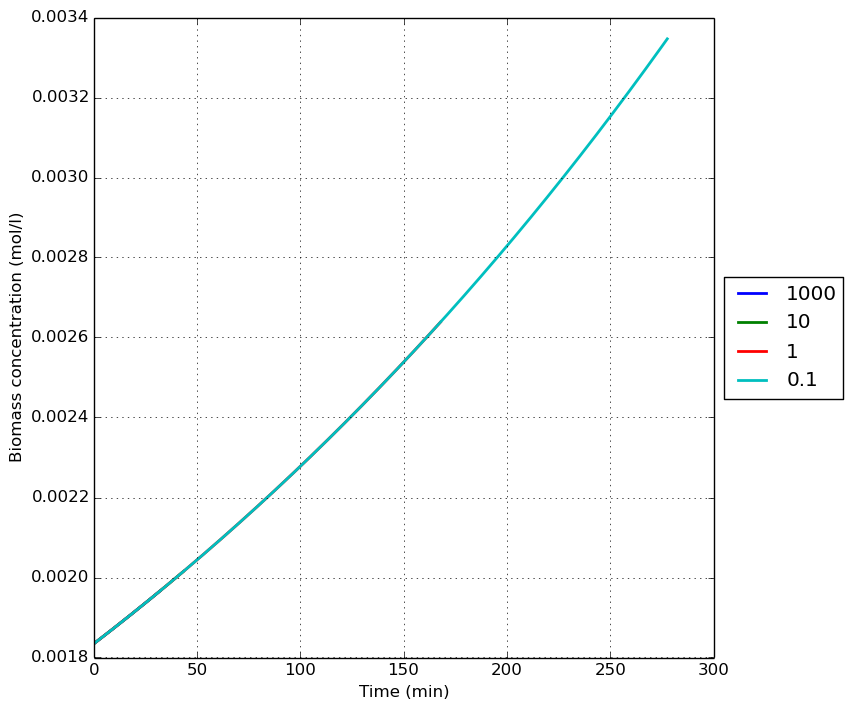
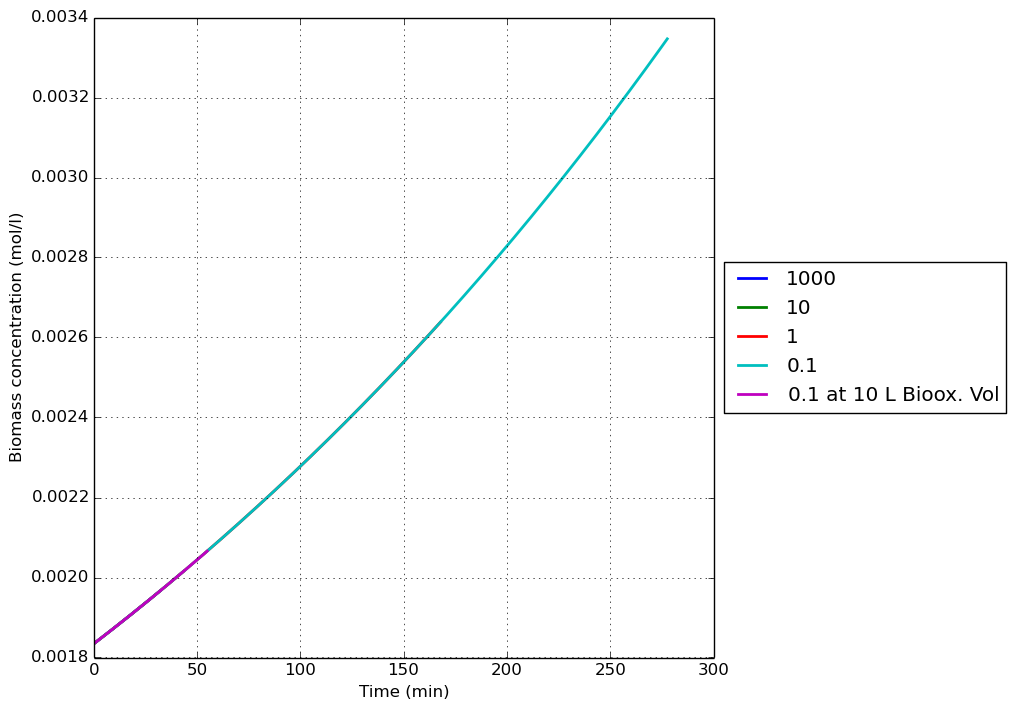
replotting

diff --git a/masters/calculations/management/commands/sensitivity_analysis.py b/masters/calculations/management/commands/sensitivity_analysis.py
@@ -134,8 +134,11 @@ class Command(BaseCommand):
             sys.build_cyclic_tanks()
             output[row[1]] = sys.run()
 
-        sys = system.System(10, 1, 1000, 9, initial_metals={"Cu": 20})
+        sys = system.System(10, 1, 0.1, 9, initial_metals={"Cu": CU})
         sys.build_cyclic_tanks()
+        output["0.1 at 10 L Bioox. Vol"] = sys.run()
+
+        analysis_list.append((20, "0.1 at 10 L Bioox. Vol"))
         self.plot_sensitivity_analysis(output, analysis_list)
 
     def plot_sensitivity_analysis(self, sys_data, analysis_list):
